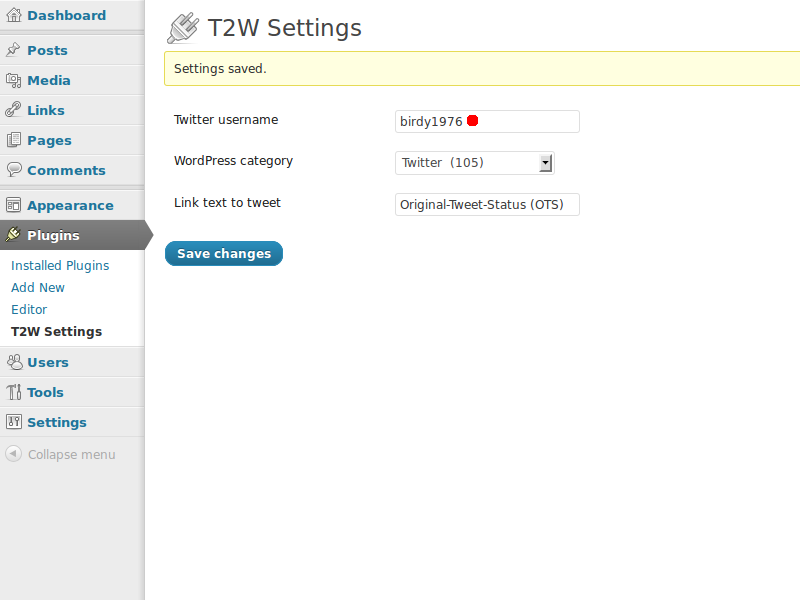
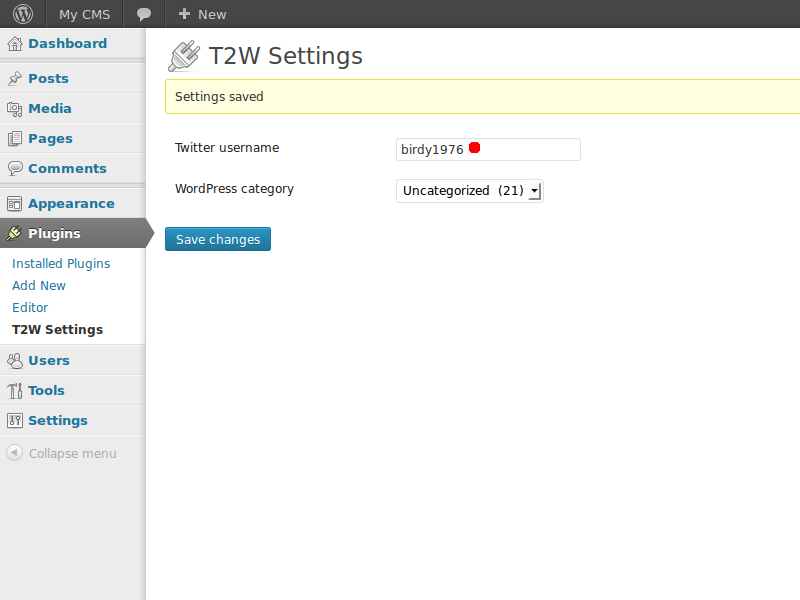
Change from RSS to JSON

Changed region(s): [[0.0, 0.0, 1.0, 0.72], [0.0312, 0.75, 0.1562, 0.78]]

diff --git a/t2w.php b/t2w.php
@@ -1,19 +1,20 @@
 <?php
 /**
  * @package T2W
- * @version 0.1
+ * @version 0.2
  */
 /*
 Plugin Name: T2W
 Plugin URI: https://github.com/birdy1976/t2w/
-Description: T2W (twitter2wordpress) posts tweets of a public Twitter account automatically to your WordPress blog.
+Description: T2W (twitter2wordpress) posts tweets of a public Twitter account automatically to a WordPress blog.
 Author: birdy1976
-Version: 0.1
+Version: 0.2
 Author URI: https://twitter.com/#!/birdy1976/
 */
 
 // http://codex.wordpress.org/Function_Reference/fetch_feed
 include_once(ABSPATH . WPINC . '/feed.php');
+include_once("oauth.php");
 
 // http://www.slideshare.net/ronalfy/wordpress-plugin-localization
 add_action('init', 't2w_init');
@@ -69,33 +70,33 @@ function t2w_cron_hourly(){
 	$o = get_option('t2w_options');
 	// https://dev.twitter.com/docs/api/1/get/statuses/user_timeline
 	$status = get_option('t2w_latest_status');
-	$url = 'http://api.twitter.com/1/statuses/user_timeline.rss?screen_name=';
-	$count = 200;
-	$rss = fetch_feed($url.''.$o['username'].'&since_id='.$status.'&count='.$count);
-	if(!is_wp_error($rss)){
-		$maxitems = $rss->get_item_quantity($count); 
-		$rss_items = $rss->get_items(0, $maxitems);
-	}
-	if($maxitems != 0){
+	// functions provided by <oauth.php>
+	$bearer_token = get_bearer_token();
+	// http://stackoverflow.com/questions/6815520/cannot-use-object-of-type-stdclass-as-array
+	$json_items = json_decode(search_for_a_user($bearer_token, $o['username']), true);
+	invalidate_bearer_token($bearer_token);
+	if(count($json_items) != 0 && !isset($json_items["error"])){
 		$tags = get_tags(); $slugs = array(); foreach ($tags as $tag){array_push($slugs, $tag->slug);}
 		$status1; $status2 = $status; $status3 = $status;
-	    foreach ($rss_items as $item){
-			$status1 = end(split("/", $item->get_permalink()));
-			$tweet = esc_html($item->get_title());
+	    foreach ($json_items as $item){
+			$status1 = $item["id_str"];
+			$tweet = esc_html($item["text"]);
 			if(bccomp($status1, $status2) == 1){
+				// http://codex.wordpress.org/Function_Reference/wp_insert_post
 				$post = array();
 				$post['post_title'] = $tweet;
-				$post['post_content'] = '<a href="'.esc_url($item->get_permalink()).'" title="'.$tweet.'">'.$o['linktext'].'</a>';
-				// http://codex.wordpress.org/Formatting_Date_and_Time
-				$post['post_date'] = $item->get_date('Y-m-d H:i:s');
+				// e.g. https://twitter.com/caro__b/status/350249279908089856
+				$post['post_content'] = 'https://twitter.com/'.$o['username']."/status/".$status1;
+				// http://stackoverflow.com/questions/7223436/parsing-the-twitter-api-created-at
+				$post['post_date'] = date('Y-m-d H:i:s', strtotime($item["created_at"]));
 				$post['post_status'] = 'publish';
 				$post['post_author'] = 1;
 				$post['post_category'] = array($o['category']);
 				// Collect as many tags as possible
-				$tweet = strtolower(t2w_unaccent($item->get_title()));
+				$tweet = strtolower(t2w_unaccent($tweet));
 				$tweet = preg_replace('/[^a-z0-9@#\s]/', '', $tweet);
-				$tweet = str_replace($o['username'], ' ', $tweet);
-				$tweet = str_replace('#039', ' ', $tweet);
+				$replace = array($o['username']);
+				$tweet = str_replace($replace, ' ', $tweet);
 				$words = split(' ', $tweet);
 				$tags = array_intersect($slugs, $words);
 				// Get new tags from hashtags and usernames but skip personal username
@@ -131,14 +132,6 @@ function t2w_options_add_pages(){
 	add_filter('plugin_action_links', 't2w_plugin_action_links', 10, 2);
 }
 
-function t2w_get_link_text($linktext){
-	if(strlen($linktext) != 0){
-		return  trim(wp_filter_nohtml_kses($linktext));
-	}else{
-		return __('Original-Tweet-Status (OTS)', "t2w");
-	}
-}
-
 function t2w_options_do_page(){
 	?>
 	<div class="wrap">
@@ -158,9 +151,6 @@ function t2w_options_do_page(){
 				<tr valign="top"><th scope="row"><?php _e('WordPress category', 't2w'); ?></th>
 					<td><?php wp_dropdown_categories('name=t2w_options%5Bcategory%5D&show_count=1&hide_empty=0&selected='.$o['category']); ?></td>
 				</tr>
-				<tr valign="top"><th scope="row"><?php _e('Link text to tweet', 't2w'); ?></th>
-					<td><input type="text" name="t2w_options[linktext]" value="<?php echo t2w_get_link_text($o['linktext']); ?>" /></td>
-				</tr>
 			</table>
 			<p class="submit">
 			<input type="submit" class="button-primary" value="<?php _e('Save changes', 't2w') ?>" />
@@ -173,7 +163,6 @@ function t2w_options_do_page(){
 function t2w_sanitize_options($input){	
 	$input['username'] =  preg_replace('/[^a-z0-9]/', '', strtolower($input['username']));
 	$input['category'] = intval($input['category']);
-	$input['linktext'] = t2w_get_link_text($input['linktext']);
 	// Execute cron as soon as possible
 	wp_schedule_single_event(time(), 't2w_cron_event');	
 	return $input;
